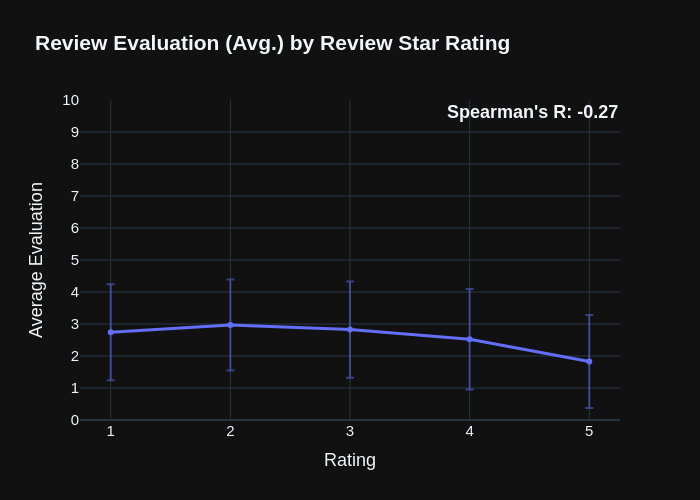
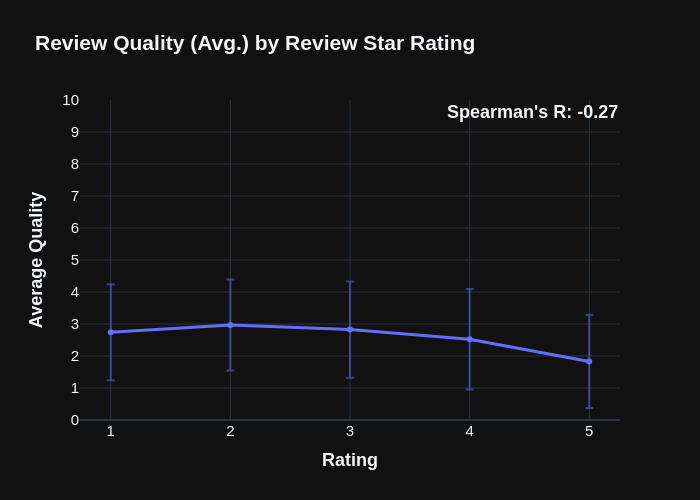
docs: added flow chart and summary

Changed region(s): [[0.15, 0.06, 0.75, 0.12], [0.03, 0.36, 0.09, 0.69], [0.45, 0.9, 0.54, 0.96]]

diff --git a/src/analyse.py b/src/analyse.py
@@ -143,9 +143,9 @@ fig.add_trace(
 fig.update_yaxes(dtick=1, range=[0, 10])
 fig.update_xaxes(dtick=1)
 fig.update_layout(
-    title="<b>Review Evaluation (Avg.) by Review Star Rating</b>",
-    xaxis_title="Rating",
-    yaxis_title="Average Evaluation",
+    title="<b>Review Quality (Avg.) by Review Star Rating</b>",
+    xaxis_title="<b>Rating</b>",
+    yaxis_title="<b>Average Quality</b>",
     font=dict(size=15),
     annotations=[
         dict(
@@ -178,9 +178,9 @@ fig.add_trace(
 )
 fig.update_yaxes(dtick=1, range=[0, 10])
 fig.update_layout(
-    title="<b>Review Evaluation (Avg.) by Verified Purchase Status</b>",
+    title="<b>Review Quality (Avg.) by Verified Purchase Status</b>",
     xaxis_title="<b>Verified Purchase</b>",
-    yaxis_title="<b>Average Evaluation</b>",
+    yaxis_title="<b>Average Quality</b>",
     font=dict(size=15),
     annotations=[
         dict(
@@ -217,9 +217,9 @@ fig.add_trace(
 )
 fig.update_yaxes(dtick=1, range=[0, 10])
 fig.update_layout(
-    title="<b>Review Evaluation (Avg.) by Product Price Range</b>",
+    title="<b>Review Quality (Avg.) by Product Price Range</b>",
     xaxis_title="<b>Price ($USD)</b>",
-    yaxis_title="<b>Average Evaluation</b>",
+    yaxis_title="<b>Average Quality</b>",
     font=dict(size=15),
     annotations=[
         dict(
@@ -256,9 +256,9 @@ fig.add_trace(
 )
 fig.update_yaxes(dtick=1, range=[0, 10])
 fig.update_layout(
-    title="<b>Review Evaluation (Avg.) by Review Helpful Votes</b>",
+    title="<b>Review Quality (Avg.) by Review Helpful Votes</b>",
     xaxis_title="<b>Helpful Votes</b>",
-    yaxis_title="<b>Average Evaluation</b>",
+    yaxis_title="<b>Average Quality</b>",
     font=dict(size=15),
     annotations=[
         dict(
@@ -266,7 +266,7 @@ fig.update_layout(
             y=1,
             xref="paper",
             yref="paper",
-            text=f"<b>Pearson's R: {round(eval_help_pearson, 2)}</b>",
+            text=f"<b>Spearman's R: {round(eval_help_spearman, 2)}</b>",
             showarrow=False,
             align="center",
             font=dict(size=18),
@@ -290,8 +290,8 @@ fig.add_trace(
 fig.update_xaxes(dtick=1, range=[0, 10])
 fig.update_yaxes(tickformat=".2%")
 fig.update_layout(
-    title="<b>Percentage of Reviews at Each Evaluation</b>",
-    xaxis_title="<b>Evaluation</b>",
+    title="<b>Distribution of Review Quality</b>",
+    xaxis_title="<b>Quality</b>",
     yaxis_title="<b>Percentage</b>",
     font=dict(size=15),
 )

diff --git a/docs/README.md b/docs/README.md
@@ -1,6 +1,140 @@
+# One Star Reviews
+
+Are more negative product reviews generally higher quality?
+[Some people](https://near.blog/read-the-one-star-reviews/) think so, to such a
+degree that they advise people to only read the 1\* reviews! This seems to make
+sense – the anger you experience from getting a defective product typically
+outweighs the satisfaction you get from a great deal. But is this _really_ true?
+Should you read the one star reviews? That's what this project will investigate.
+
+# The Process
+
+![flow-chart](../media/flow-chart.svg)
+
+The general process was as follows:
+
+1. **Find some review data:** I settled on
+   [this dataset](https://amazon-reviews-2023.github.io/), which contained
+   ~100GB of Amazon review and product information.
+2. **Parse the data:** I used two methods for this: Polars and Pyspark. Both are
+   good depending on your environment (Spark for distributed compute, Polars for
+   a single-node).
+3. **Evaluate the reviews:** This involved manually labelling some review data,
+   then using this to fine-tune Gemini 1.5 Flash.
+4. **Analyze the final dataset:** You can see the results of this below...
+
+# The Results
+
+## Overview
+
+### Most Reviews Suck
+
+Before diving into the results, it's useful to get a general idea of how review
+quality was distributed.
+
+While manually labelling the data for fine-tuning, I quickly realized that
+**most reviews suck**. As you can see below, the vast majority (~90%) of reviews
+are below a 5/10 in terms of quality.
+
 ![pct-eval](../media/pct-eval.png)
-![running-total.png](../media/running-total.png)
-![avg-eval-by-help](../media/avg_eval_by_help.png)
-![avg-eval-by-price](../media/avg_eval_by_price.png)
+
+A huge swath of reviews were:
+
+> Great product!!
+
+> As expected
+
+> I bought this for my grandson... it hasn't arrived yet but I think he'll love
+> it!
+
+Whilst some of these reviews are sweet, they aren't particularly useful.
+
+The primary reason for this is effort. Writing a high-quality review takes time
+and energy that most people aren't willing to expend, as they don't see a big
+enough upside. This results in most reviews being short and simple: the average
+review was about 221 characters (±429), or 44 words long. Even when people _do_
+make an effort to write a long review, this is usually to express some personal
+love/anger towards the product, and not to express an objective analysis of its
+pros/cons.
+
+### A Review History of Amazon
+
+Nevertheless, a more expected result was the distribution of reviews over time.
+According to this graph, Amazon really began picking up steam in the mid-2010s.
+This closely matches the story told by Amazon stock prices, which show a similar
+slope (though not as steep):
+
+<div style="display: flex; flex-wrap: wrap;">
+   <div style="vertical-align: middle; width: 100%;">
+      <img style="vertical-align: middle; width: 49%;" src="../media/running-total.png" />
+      <img style="vertical-align: middle; width: 49%;" src="../media/amazon-stock.png" />
+   </div>
+<div>
+
+This is reassuring, as it suggests that the temporal distribution of reviews in
+the dataset are likely accurate.
+
+## Main Hypothesis
+
+Now to answer the actual question: are more negative reviews higher quality? Yes
+they are!
+
 ![avg-eval-by-rating](../media/avg_eval_by_rating.png)
+
+There is a weak-to-moderate correlation here ($r=-0.27$), indicating that as
+star ratings increase, review quality tends to decrease.
+
+One surprising thing here is that 2* reviews are actually superior to 1*
+reviews, and 3* reviews aren't far off in quality from 1* reviews. So really,
+"read the <= 3* reviews" is better advice than "read the 1* reviews".
+
+## Other Insights
+
+### Verified Purchases
+
+There were a couple of other interesting findings. One that was particularly
+surprising was the effect of verified purchases:
+
 ![avg-eval-by-purchase](../media/avg_eval_by_purchase.png)
+
+Reviews that **weren't** verified purchases were **better** than reviews that
+were! I'm not sure why this might be, the only explanation I can think of is
+botting: companies purchasing a bunch of fraudulent "verified" reviews to
+inflate the perceived quality of their products.
+
+### Helpful Votes
+
+Less suprisingly, the number of helpful votes a review has is a great predictor
+of review quality (the highest correlation overall)! However, it's important to
+note that there are very few reviews with 300-400+ helpful votes, so this could
+be a reflection of poor sample size.
+
+![avg-eval-by-help](../media/avg_eval_by_help.png)
+
+### Price
+
+Another unsurprising one: higher priced items get better quality reviews. This
+checks out: if you spent a lot on an item, you're more emotionally invested in
+its quality, so you'll probably spend more time writing a detailed review.
+
+![avg-eval-by-price](../media/avg_eval_by_price.png)
+
+# Summary
+
+Based on these insights, how should one modify their behaviour when reading
+Amazon reviews? Let's analyze this using Amazon's built in filtering
+functionality:
+
+- When choosing to sort by "Top reviews" or "Most recent", you should probably
+  choose "Top reviews". It's unclear what the "Top reviews" category does, but
+  my guess is that it sorts reviews by their number of helpful votes.
+- When filtering by "All reviewers" or "Verified purchase only", you should
+  select "All reviewers", as reviews marked as "verified purchases" tend to be
+  lower quality.
+- When filtering by star rating, you should choose anything 3\* or below. You
+  can also select the "critical reviews" option, but this seems to be based on
+  some AI sentiment analysis that isn't guaranteed to be accurate.
+- The rest of the options (product format, text/image/video) weren't analyzed as
+  part of this project. However, the "product format" filter seems useful if a
+  single product has multiple variations (different size, material, etc.), and
+  you're only interested in the reviews for one of the variations.
